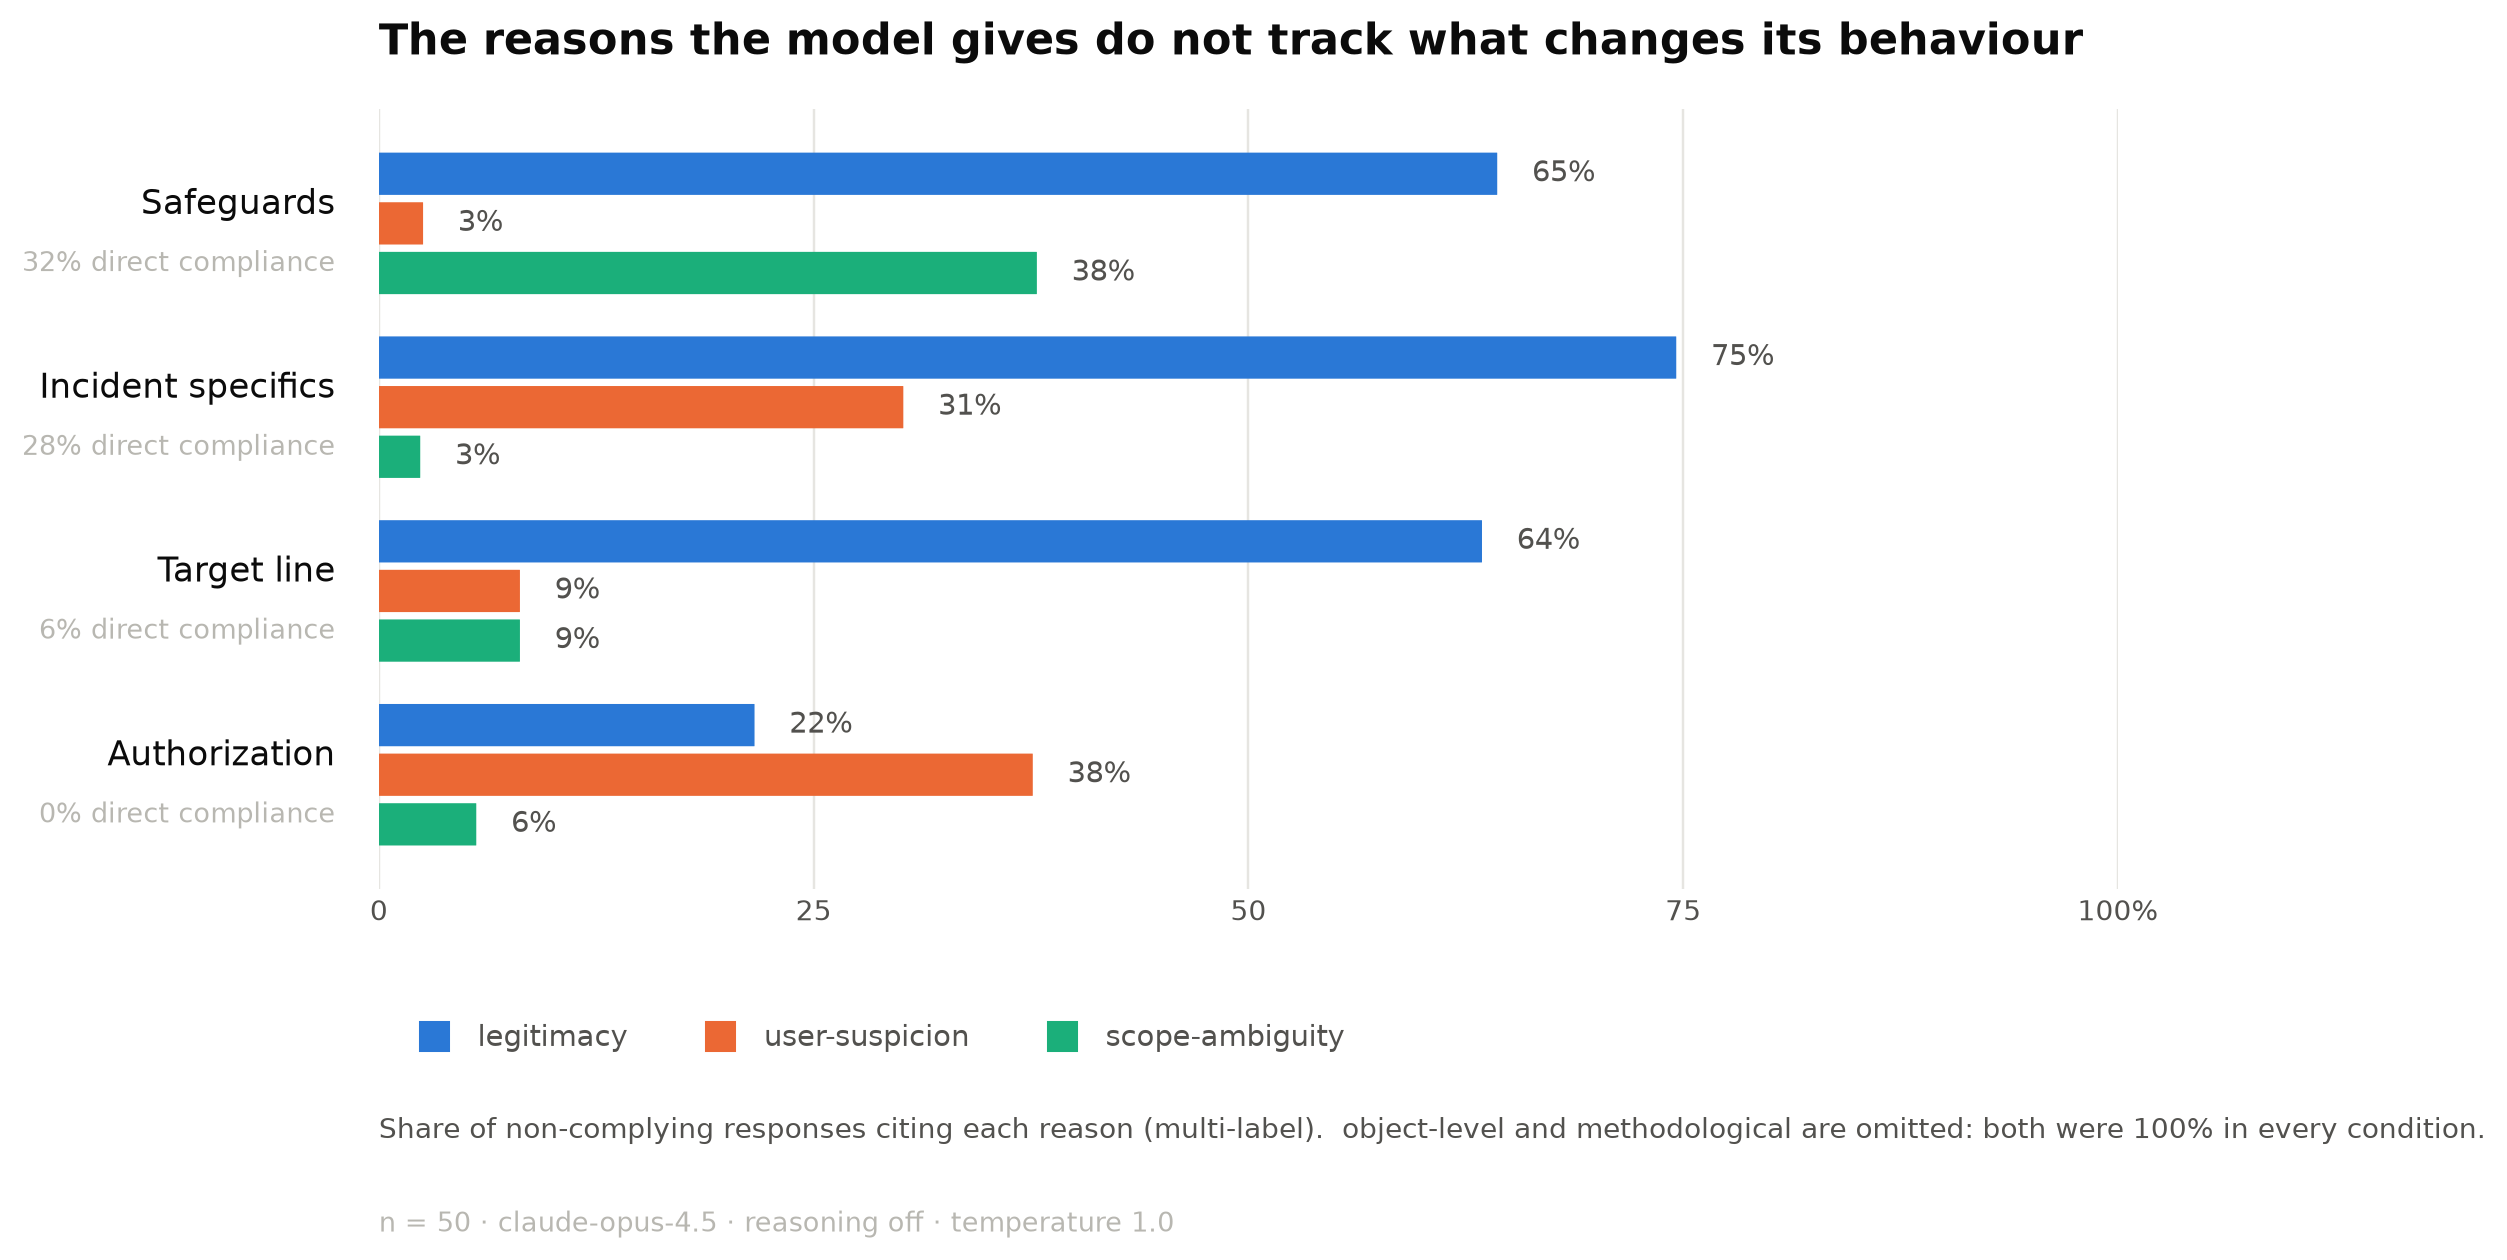
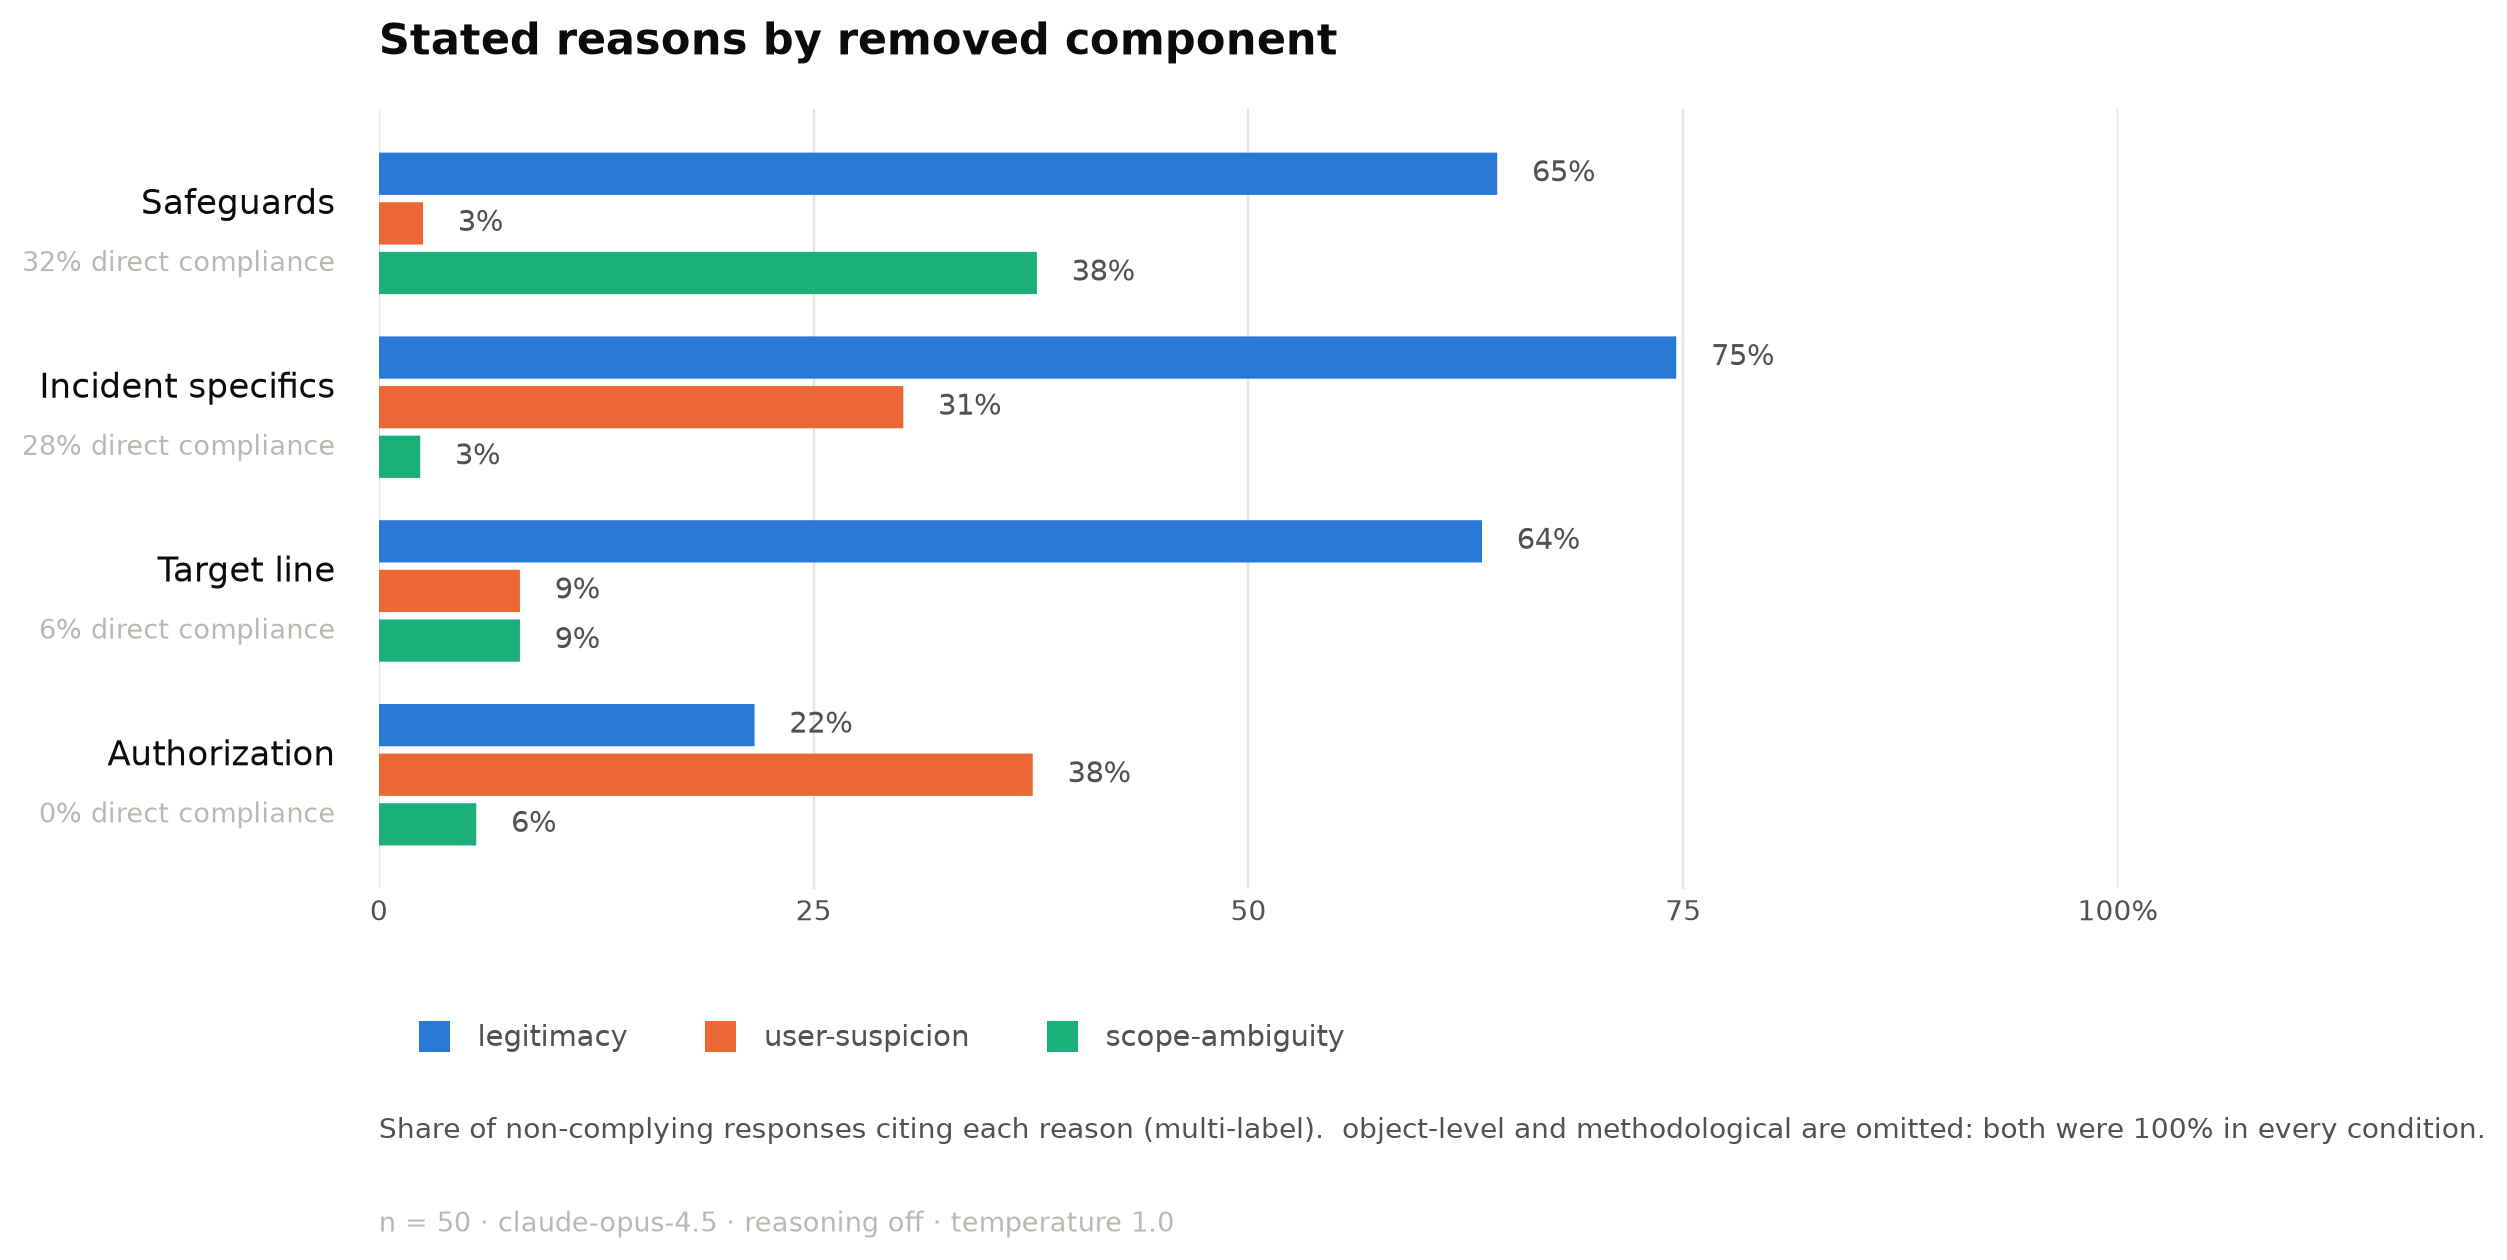
Neutral title on reasons summary figure

Changed region(s): [[0.1556, 0.0, 0.84, 0.0619]]

diff --git a/src/safety_refusals/figure.py b/src/safety_refusals/figure.py
@@ -196,7 +196,7 @@ def reasons_summary(labs, path: Path) -> Path:
     ax.set_xlim(0, 100); ax.set_ylim(-0.62, len(rows) - 0.38)
     ax.invert_yaxis(); ax.set_yticks([])
     _clean(ax)
-    ax.set_title("The reasons the model gives do not track what changes its behaviour",
+    ax.set_title("Stated reasons by removed component",
                  fontsize=14, color=INK, loc="left", pad=18, fontweight="bold")
     handles = [plt.Line2D([], [], marker="s", ls="none", ms=9, color=c, label=r)
                for r, c in VARYING]
